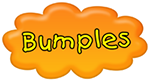
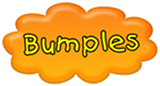
commit12

diff --git a/gatsby-config.js b/gatsby-config.js
@@ -33,7 +33,7 @@ module.exports = {
         background_color: `#663399`,
         theme_color: `#663399`,
         display: `minimal-ui`,
-        icon: `src/images/Logo.png`, // This path is relative to the root of the site.
+        icon: `src/images/Bumples.png`, // This path is relative to the root of the site.
       },
     },
     // this (optional) plugin enables Progressive Web App + Offline functionality
